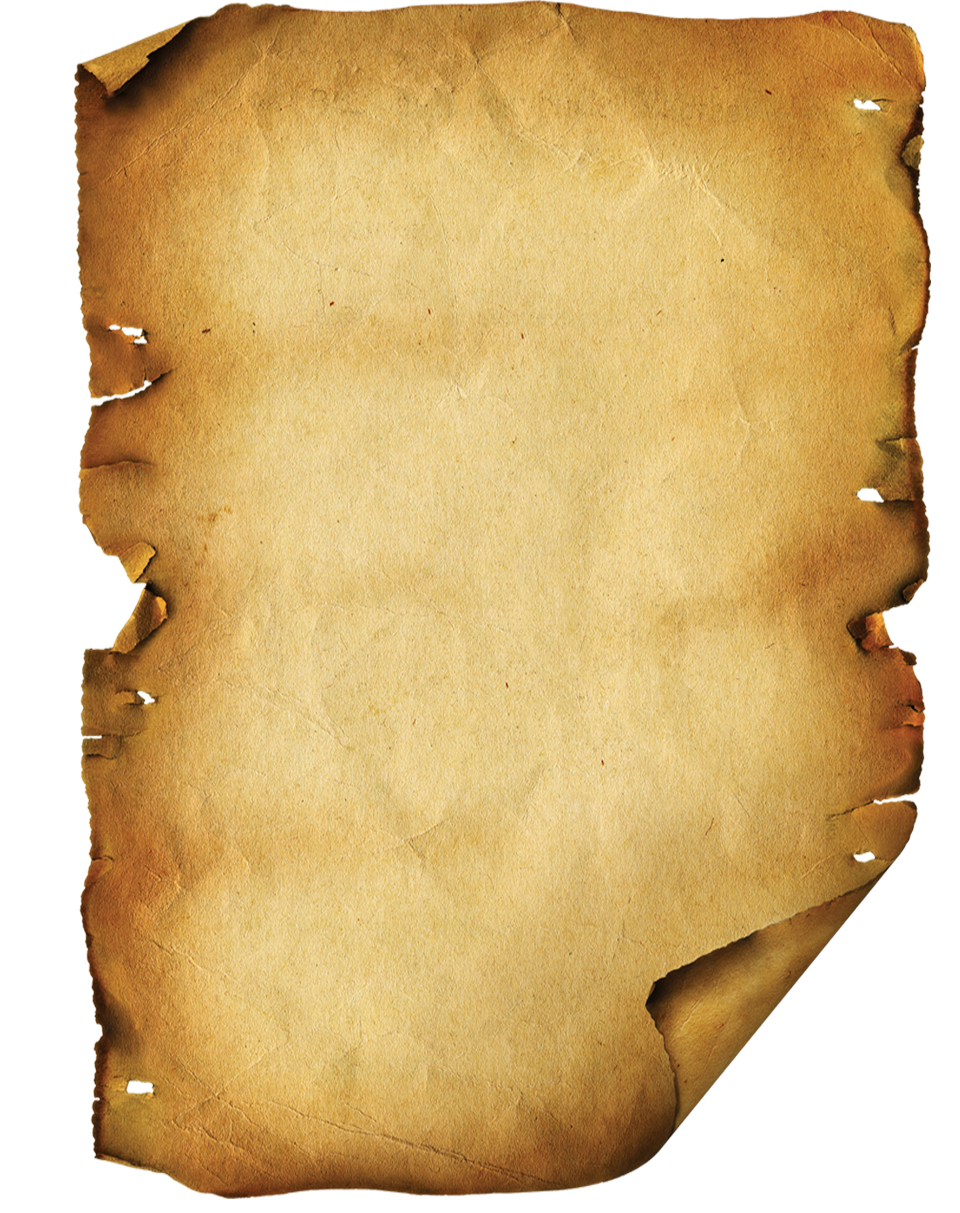
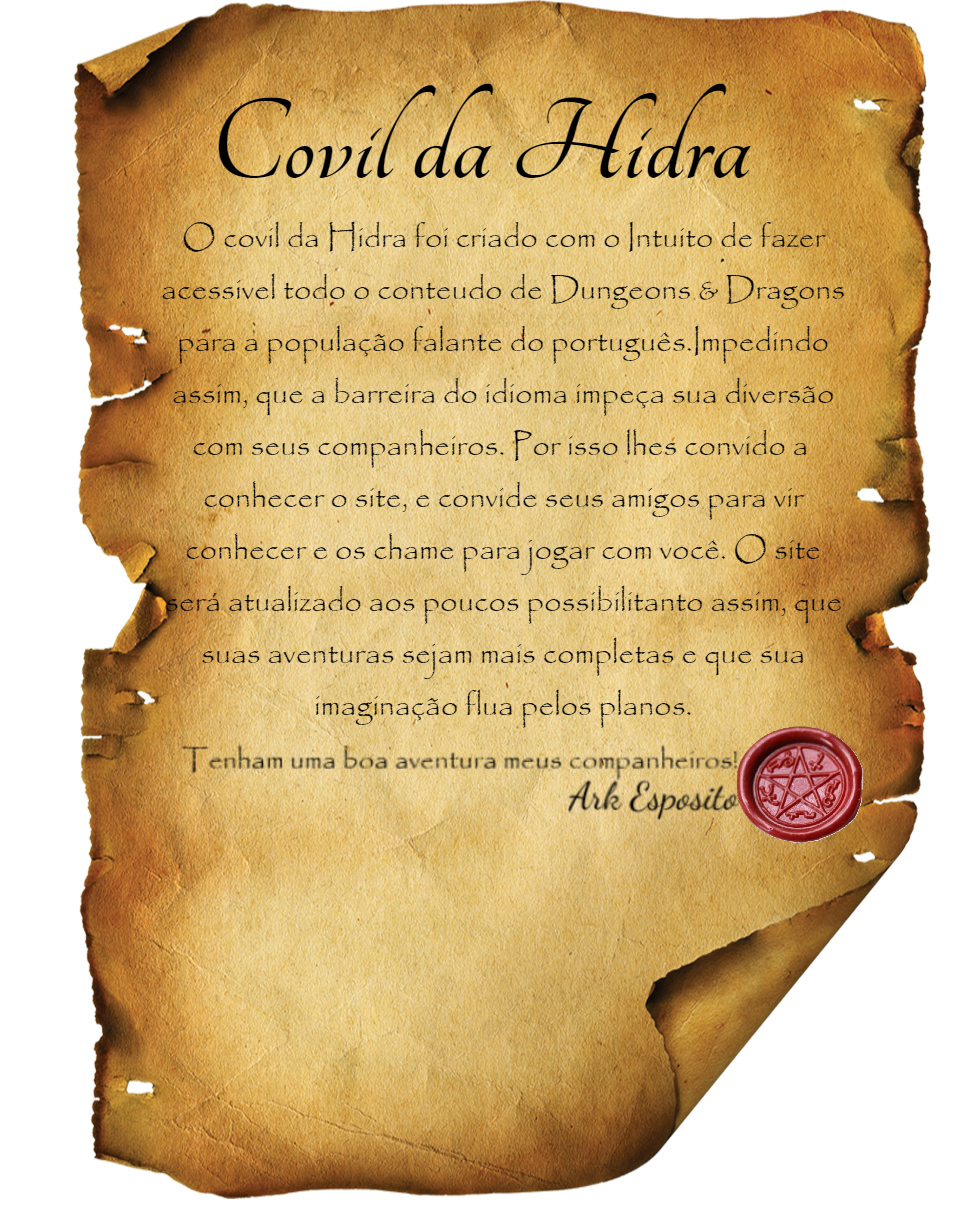
v.2 index

diff --git a/Html/Index.htm b/Html/Index.htm
@@ -1,52 +1,53 @@
 <!DOCTYPE html>
-<html lang="pt-BR">
-    <head>
-        <meta charset="utf-8">
-        <meta name="viewport" content="width=device-width, initial-scale=1">
-        <title>Covil da Hidra</title>
-        <link rel="stylesheet" href="Css/Index.css">
-        <script src="Js/Index.js"></script>
-        <link href="https://fonts.googleapis.com/css?family=Tangerine:regular,700" rel="stylesheet"/>
-        <link rel="stylesheet" href="https://cdnjs.cloudflare.com/ajax/libs/font-awesome/4.7.0/css/font-awesome.min.css">
-        <link href="https://fonts.googleapis.com/css2?family=Dancing+Script:wght@700&display=swap" rel="stylesheet">
-    </head>
+<html lang="pt">
+    <title>Covil da Hidra</title>
+    <meta charset="UTF-8">
+    <meta name="viewport" content="width=device-width, initial-scale=1">
+    <link rel="stylesheet" href="https://www.w3schools.com/w3css/4/w3.css">
+    <link rel="stylesheet" href="https://www.w3schools.com/lib/w3-theme-black.css">
+    <link rel="stylesheet" href="https://cdnjs.cloudflare.com/ajax/libs/font-awesome/4.7.0/css/font-awesome.min.css">
+    <link rel="stylesheet" href="https://www.w3schools.com/lib/w3-colors-2017.css">
+    <link rel="stylesheet" href="../Css/Pericias.css">
+    <link rel="stylesheet" href="../Css/Index.css">
+    <script src="../Js/Pericias.js"></script>
+    <link href="https://fonts.googleapis.com/css?family=Tangerine:regular,700" rel="stylesheet"/>
     <body>
-        <br>
-        <br>
-        <h1 id="title"><b>Covil da Hidra</b></h1>
-        <div>
-            <div class="topnav" id="myTopnav">
-                <nav>
-                    <a href="Html/Index.htm" class="active" id="home">Home</a>
-                    <a href="Html/Antecedentes.htm" id="backgrounds">Antecedentes</a>
-                    <a href="Html/Classes.htm" id="classes">Classes</a>
-                    <a href="Html/Habilidades.htm" id="scores">Habilidades</a>
-                    <a href="Html/Iniciantes.htm" id="iniciantes">Iniciantes</a>
-                    <a href="Html/Mestres.htm" id="mestres">Mestres</a>
-                    <a href="Html/Pericias.htm" id="skills">Pericias</a>
-                    <a href="Html/Races.htm" id="races">Raças</a>
-                    <a href="Html/About.htm" id="sobre">Sobre</a>
-                    <a href="Html/Feats.htm" id="feats">Talentos</a>
-                    <a href="javascript:void(0);" class="icon" onclick="myFunction()">
-                        <i class="fa fa-bars"></i>
-                    </a>
-                </nav>
+
+        <!-- Navbar -->
+        <div class="w3-top">
+            <div class="w3-bar w3-theme w3-top w3-left-align w3-large">
+                <a class="w3-bar-item w3-button w3-right w3-hide-large w3-hover-white w3-large w3-theme-l1" href="javascript:void(0)" onclick="w3_open()"><i class="fa fa-bars"></i></a>
+                <a href="Index.htm" target="_blank" class="w3-bar-item w3-button w3-theme-l1 w3-hover-dark-grey w3-hover-text-deep-purple" id="home">Home</a>
+                <a href="Antecedentes.htm" target="_blank" class="w3-bar-item w3-button w3-hide-small w3-hover-brown w3-hover-text-deep-orange">Antecedentes</a>
+                <a href="Classes.htm" target="_blank" class="w3-bar-item w3-button w3-hide-small w3-hover-brown w3-hover-text-deep-orange">Classes</a>
+                <a href="Habilidades.htm" target="_blank" class="w3-bar-item w3-button w3-hide-small w3-hover-brown w3-hover-text-deep-orange">Habilidades</a>
+                <a href="Iniciantes.htm" target="_blank" class="w3-bar-item w3-button w3-hide-small w3-hover-brown w3-hover-text-deep-orange">Iniciantes</a>
+                <a href="Mestres.htm" target="_blank" class="w3-bar-item w3-button w3-hide-small w3-hover-brown w3-hover-text-deep-orange">Mestres</a>
+                <a href="Pericias.htm" target="_blank" class="w3-bar-item w3-button w3-hide-small w3-hover-brown w3-hover-text-deep-orange">Pericias</a>
+                <a href="Races.htm" target="_blank" class="w3-bar-item w3-button w3-hide-small w3-hover-brown w3-hover-text-deep-orange">Raças</a>
+                <a href="About.htm" target="_blank" class="w3-bar-item w3-button w3-hide-small w3-hover-brown w3-hover-text-deep-orange" id="about">Sobre</a>
+                <a href="Feats.htm" target="_blank" class="w3-bar-item w3-button w3-hide-small w3-hover-brown w3-hover-text-deep-orange">Talentos</a>
             </div>
         </div>
-        <aside>
-            <div id="adLeft">
-                <script data-ad-client="ca-pub-3579289318066068" async src="https://pagead2.googlesyndication.com/pagead/js/adsbygoogle.js"></script>
+
+        <!-- Sidebar -->
+        <nav class="w3-sidebar w3-bar-block w3-collapse w3-large w3-theme-l5w3-animate-left" id="mySidebar">
+            <script data-ad-client="ca-pub-3579289318066068" async src="https://pagead2.googlesyndication.com/pagead/js/adsbygoogle.js"></script>
+        </nav>
+
+        <!-- Overlay effect when opening sidebar on small screens -->
+        <div class="w3-overlay w3-hide-large" onclick="w3_close()" style="cursor:pointer" title="close side menu" id="myOverlay"></div>
+
+        <!-- Main content: shift it to the right by 250 pixels when the sidebar is visible -->
+        <div class="w3-main" style="margin-left:250px">
+
+
+
+            <div class="w3-row w3-padding-64">
+                <div class="w3-twothird w3-container">
+                    <img src="../Images/pngegg.png" alt="" class="poster">
+                </div>
             </div>
-            <div id="adRight">
-                <script data-ad-client="ca-pub-3579289318066068" async src="https://pagead2.googlesyndication.com/pagead/js/adsbygoogle.js"></script>
-            </div>
-        </aside>
-        <br>
-        <div id="content">
-            <p id="about">O<em>Covil da Hidra</em> foi criado com o Intuito de fazer acessivel todo o conteudo de Dungeons & Dragons para a população falante do português.Impedindo assim, que a barreira do idioma impeça sua diversão com seus companheiros. Por isso lhes convido a  conhecer o site, e convide seus amigos para vir conhecer e os chame para jogar com você. O site será atualizado aos poucos possibilitanto assim, que suas aventuras sejam mais completas e que sua imaginação flua pelos planos.<br><span id="greet">Tenham uma boa aventura. Meus companheiros</span></p>
-            <p id="sign"><em>Ark. Esposito</em></p>
-            <img id="wax" src="../Images/WhatsApp Image 2020-09-03 at 11.01.22 PM_burned.png">
         </div>
-        <img id="parch" src="../Images/pngegg.png">
     </body>
 </html>

diff --git a/Html/suggested.htm b/Html/suggested.htm
@@ -5,29 +5,31 @@
     <meta name="viewport" content="width=device-width, initial-scale=1">
     <link rel="stylesheet" href="https://www.w3schools.com/w3css/4/w3.css">
     <link rel="stylesheet" href="https://www.w3schools.com/lib/w3-theme-black.css">
-    <link rel="stylesheet" href="https://fonts.googleapis.com/css?family=Roboto">
     <link rel="stylesheet" href="https://cdnjs.cloudflare.com/ajax/libs/font-awesome/4.7.0/css/font-awesome.min.css">
-    <link rel="stylesheet" href="../Css/Suggested.css">
-    <script src="../Js/suggested.js"></script>
+    <link rel="stylesheet" href="https://www.w3schools.com/lib/w3-colors-2017.css">
+    <link rel="stylesheet" href="../Css/Pericias.css">
+    <script src="../Js/Pericias.js"></script>
     <link href="https://fonts.googleapis.com/css?family=Tangerine:regular,700" rel="stylesheet"/>
     <body>
 
         <!-- Navbar -->
         <div class="w3-top">
-        <div class="w3-bar w3-theme w3-top w3-left-align w3-large">
-            <a class="w3-bar-item w3-button w3-right w3-hide-large w3-hover-white w3-large w3-theme-l1" href="javascript:void(0)" onclick="w3_open()"><i class="fa fa-bars"></i></a>
-            <a href="#" class="w3-bar-item w3-button w3-theme-l1">Logo</a>
-            <a href="#" class="w3-bar-item w3-button w3-hide-small w3-hover-white">About</a>
-            <a href="#" class="w3-bar-item w3-button w3-hide-small w3-hover-white">Values</a>
-            <a href="#" class="w3-bar-item w3-button w3-hide-small w3-hover-white">News</a>
-            <a href="#" class="w3-bar-item w3-button w3-hide-small w3-hover-white">Contact</a>
-            <a href="#" class="w3-bar-item w3-button w3-hide-small w3-hide-medium w3-hover-white">Clients</a>
-            <a href="#" class="w3-bar-item w3-button w3-hide-small w3-hide-medium w3-hover-white">Partners</a>
-        </div>
+            <div class="w3-bar w3-theme w3-top w3-left-align w3-large">
+                <a class="w3-bar-item w3-button w3-right w3-hide-large w3-hover-white w3-large w3-theme-l1" href="javascript:void(0)" onclick="w3_open()"><i class="fa fa-bars"></i></a>
+                <a href="Index.htm" target="_blank" class="w3-bar-item w3-button w3-theme-l1 w3-hover-dark-grey w3-hover-text-deep-purple" id="home">Home</a>
+                <a href="Antecedentes.htm" target="_blank" class="w3-bar-item w3-button w3-hide-small w3-hover-brown w3-hover-text-deep-orange">Antecedentes</a>
+                <a href="Classes.htm" target="_blank" class="w3-bar-item w3-button w3-hide-small w3-hover-brown w3-hover-text-deep-orange">Classes</a>
+                <a href="Habilidades.htm" target="_blank" class="w3-bar-item w3-button w3-hide-small w3-hover-brown w3-hover-text-deep-orange">Habilidades</a>
+                <a href="Iniciantes.htm" target="_blank" class="w3-bar-item w3-button w3-hide-small w3-hover-brown w3-hover-text-deep-orange">Iniciantes</a>
+                <a href="Mestres.htm" target="_blank" class="w3-bar-item w3-button w3-hide-small w3-hover-brown w3-hover-text-deep-orange">Mestres</a>
+                <a href="Races.htm" target="_blank" class="w3-bar-item w3-button w3-hide-small w3-hover-brown w3-hover-text-deep-orange">Raças</a>
+                <a href="About.htm" target="_blank" class="w3-bar-item w3-button w3-hide-small w3-hover-brown w3-hover-text-deep-orange" id="about">Sobre</a>
+                <a href="Feats.htm" target="_blank" class="w3-bar-item w3-button w3-hide-small w3-hover-brown w3-hover-text-deep-orange">Talentos</a>
+            </div>
         </div>
 
         <!-- Sidebar -->
-        <nav class="w3-sidebar w3-bar-block w3-collapse w3-large w3-theme-l5 w3-animate-left" id="mySidebar">
+        <nav class="w3-sidebar w3-bar-block w3-collapse w3-large w3-theme-l5w3-animate-left" id="mySidebar">
             <script data-ad-client="ca-pub-3579289318066068" async src="https://pagead2.googlesyndication.com/pagead/js/adsbygoogle.js"></script>
         </nav>
 

diff --git a/Css/Index.css b/Css/Index.css
@@ -1,163 +1,8 @@
-html{
-    font-size: 18px;
-    background-image: url("../Images/paper.jpg");
-    font-family: 'Papyrus',fantasy;
-    color: #1B1B1B;
+#myFooter{
+    position: static;
+    bottom: 0;
 }
 
-@media screen and (max-width: 600px) {
-    .topnav a:not(:first-child) {display: none;}
-    .topnav a.icon {
-        float: right;
-        display: block;
-    }
-}
-
-@media screen and (max-width: 600px) {
-    .topnav.responsive {position: relative;}
-    .topnav.responsive a.icon{
-        position: absolute;
-        right: 0;
-        top: 0;
-    }
-    .topnav.responsive a {
-        float: none;
-        display: block;
-        text-align: left;
-    }
-}
-.topnav{
-    position: fixed;
-   background-color: #333;
-   overflow: hidden;
-   width: 100%;
-   top: 0px;
-   left: 0px;
-   z-index: 2;
-}
-
-.topnav a{
-    float: left;
-    display: block;
-    color: #f2f2f2;
-    text-align: center;
-    padding: 14px 16px;
-    text-decoration: none;
-    font-size: 0.68em;
-}
-
-.topnav a:hover{
-    background-color: #3f0034;
-    color: #e60000;
-}
-
-.topnav a.active{
-    background-color: #676767;
-    color: #f2f2f2;
-}
-
-.topnav .icon{
-    display: none;
-}
-
-.topnav input[type=text] {
-    float: right;
-    padding: 6px;
-    border: none;
-    margin-top: 8px;
-    margin-right: 16px;
-    font-size: 0.68em;
-}
-
-#parch{
-    width: 50%;
-    position: absolute;
-    left: 300px;
-    top: 70px;
-}
-
-#content{
-    box-sizing: content-box;
-    overflow: auto;
-    width: 450px;
-    height: 600px;
-    text-align: justify;
-    position: absolute;
-    left: 440px;
-    z-index: 3;
-    top: 205px;
-}
-
-#title{
-    position: absolute;
-    text-align: center;
-    font-family: Tangerine;
-    font-size: 5em;
-    z-index: 2;
-    left: 450px;
-
-}
-
-#adLeft {
-    height: 800px;
-    width: 160px;
-    position: fixed;
-    z-index: 1;
-    top: 0;
-    left: 0;
-    overflow-x: hidden;
-    padding-top: 20px;
-}
-
-#adRight{
-    height: 800px;
-    width: 160px;
-    position: fixed;
-    z-index: 1;
-    top: 0;
-    right: 0;
-    overflow-x: hidden;
-    padding-top: 20px;
+.poster{
     
-}
-
-#about::first-letter{
-    font-size: 1.5em;
-    font-style: bold;
-}
-
-#about{
-    width: 400px;
-    box-sizing: content-box;
-    overflow: auto;
-    top: 205px;
-    
-}
-
-#sign{
-    position: absolute;
-    font-family: 'Dancing Script', cursive;
-    font-size: 1.2em;
-    right: 70px;
-    top: 340px;
-    margin: 5px;
-    
-}
-
-#greet{
-    font-size: .9em;
-    float: right;
-}
-
-#sobre{
-    float: right;
-    width: fit-content;
-}
-
-#wax{
-    width: 15%;
-    position: absolute;
-    float: right;
-    right: 1px;
-    top: 340px;
 }

diff --git a/Css/Pericias.css b/Css/Pericias.css
@@ -59,10 +59,6 @@ html,body,h1,h2,h3,h4,h5,h6 {
     background-color: rgba(255, 255, 255, 0);
 }
 
-#greet{
-    float: right;
-}
-
 #about{
     float: right;
 }
